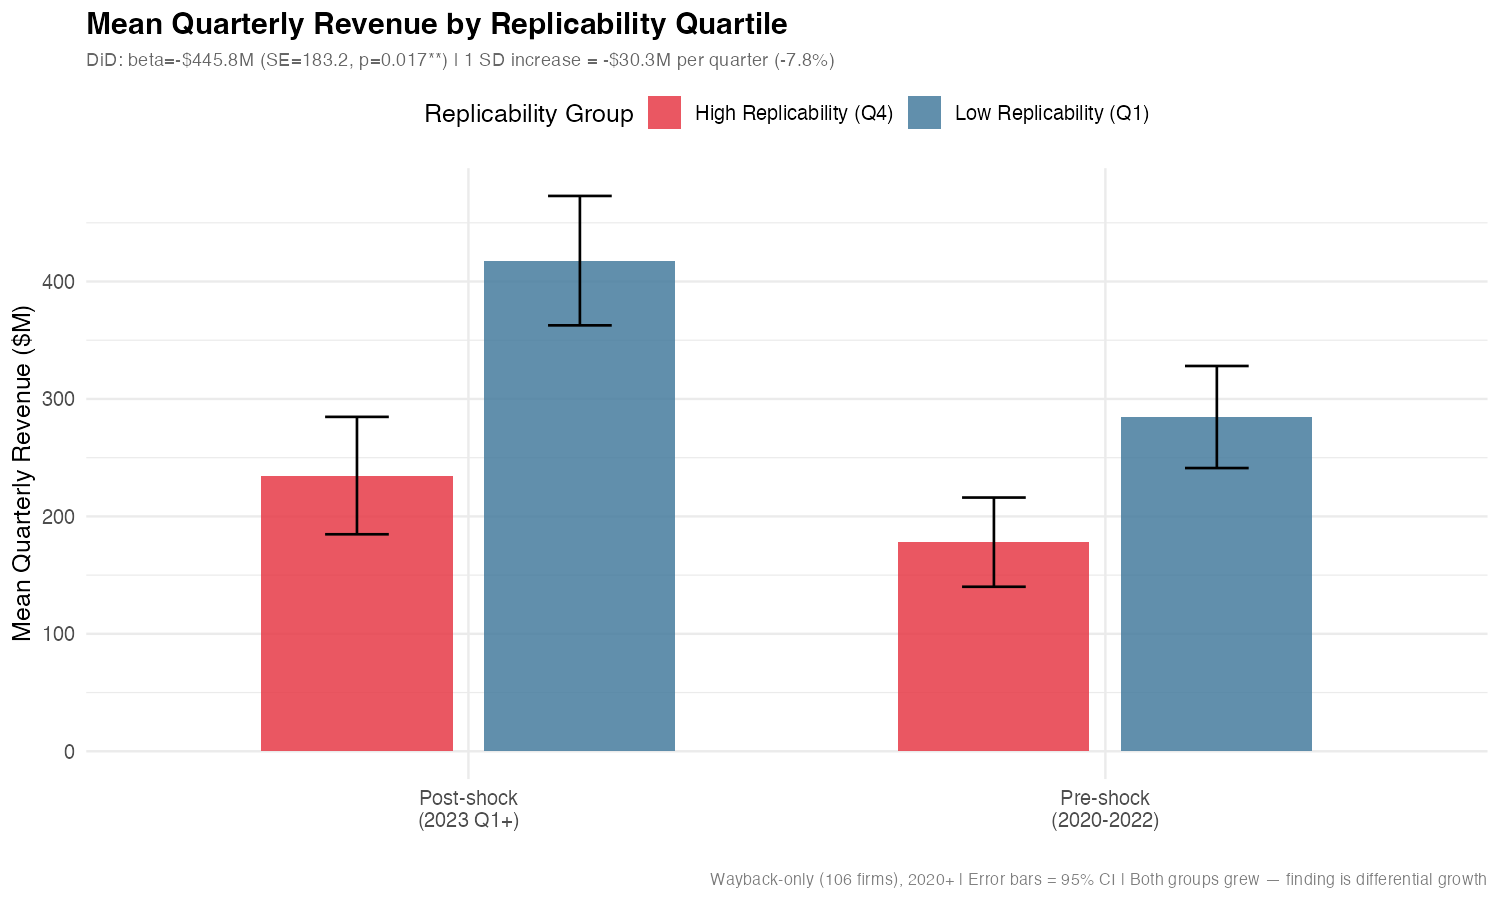
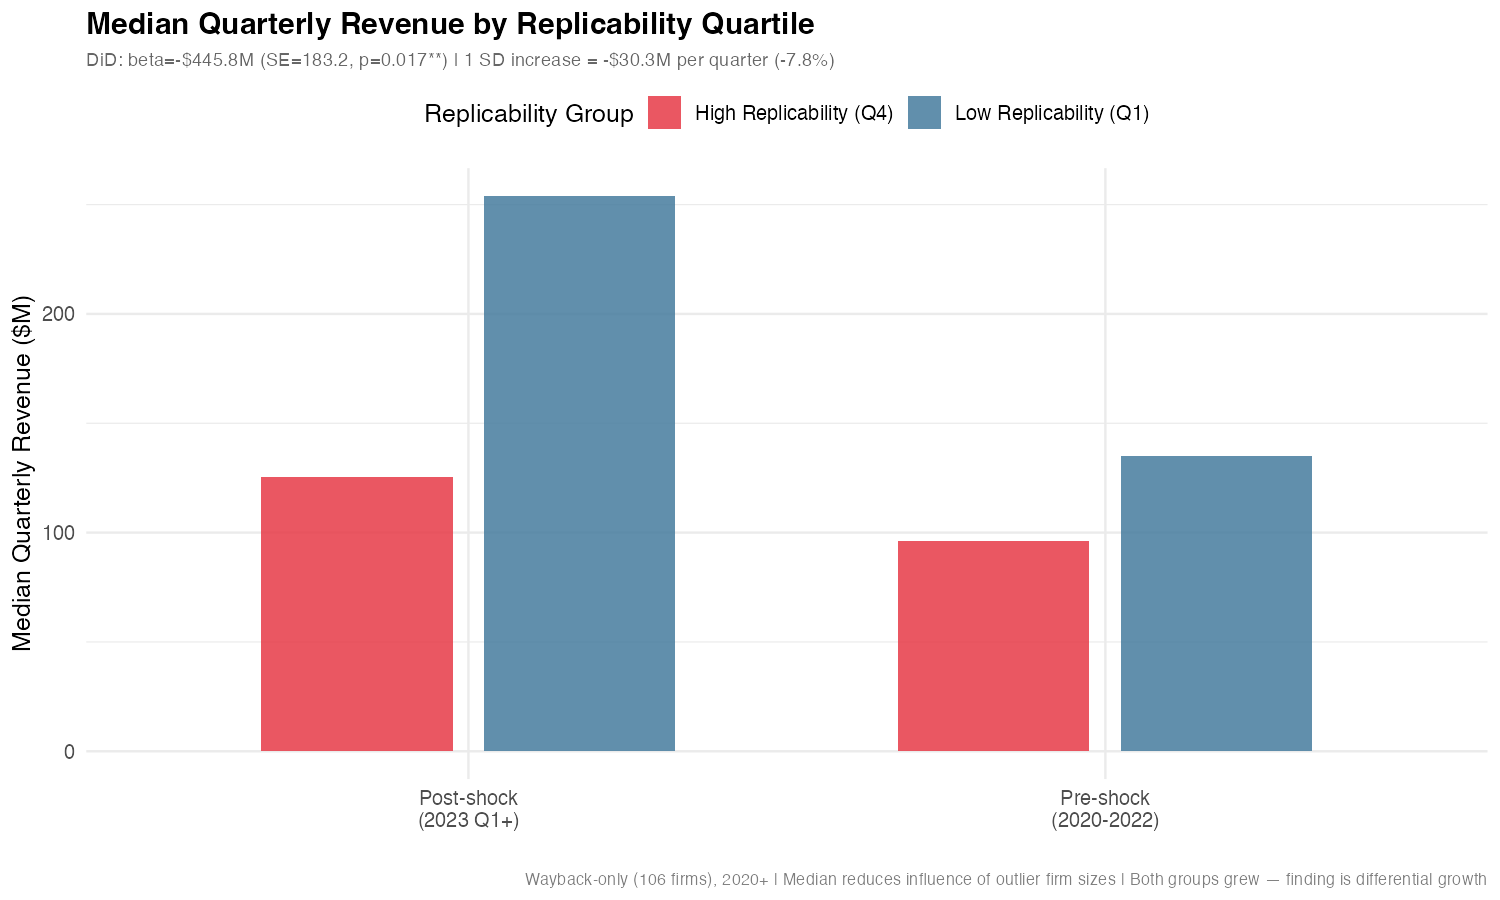
fix: address size heterogeneity in descriptive figures
- Revenue trend: indexed to 100 at 2022 Q3 per firm (removes size bias)
- Pre/post bars: median instead of mean
- Added caveat sentence explaining that DiD regression addresses size
  concern via log scaling and firm FEs

diff --git a/thesis.tex b/thesis.tex
@@ -299,6 +299,8 @@ To translate the log-scale coefficient into interpretable dollar terms, I estima
 
 High-replicability firms (top quartile) grew mean quarterly revenue from \$178.1 million pre-shock to \$234.8 million post-shock --- a 31.8 percent increase. Low-replicability firms (bottom quartile) grew from \$284.6 million to \$417.8 million --- a 46.8 percent increase. The 15 percentage point gap in growth rates is economically substantial.
 
+These descriptive comparisons use raw revenue levels and are therefore sensitive to the size composition of each quartile --- larger firms within a quartile exert disproportionate influence on the group mean. The DiD regression addresses this concern by log-scaling revenue and including firm fixed effects, which absorb all time-invariant size differences and identify the treatment effect from within-firm variation over time.
+
 \subsection{Event Study}
 
 \begin{figure}[H]

diff --git a/THESIS_FINAL.md b/THESIS_FINAL.md
@@ -230,6 +230,8 @@ To translate the log-scale coefficient into interpretable dollar terms, I estima
 
 Comparing the top and bottom quartiles of the replicability distribution provides further intuition. High-replicability firms (top quartile) grew mean quarterly revenue from $178.1 million pre-shock to $234.8 million post-shock — a 31.8 percent increase. Low-replicability firms (bottom quartile) grew from $284.6 million to $417.8 million — a 46.8 percent increase. The 15 percentage point gap in growth rates is economically substantial. Importantly, both groups grew in absolute terms: the finding is differential growth, not absolute decline. High-replicability firms did not shrink; they grew more slowly than their low-replicability counterparts.
 
+These descriptive comparisons use raw revenue levels and are therefore sensitive to the size composition of each quartile — larger firms within a quartile exert disproportionate influence on the group mean. The DiD regression addresses this concern by log-scaling revenue and including firm fixed effects, which absorb all time-invariant size differences and identify the treatment effect from within-firm variation over time.
+
 ### 6.3 Event Study
 
 [Figure 7: Event study — ln(Revenue)]
